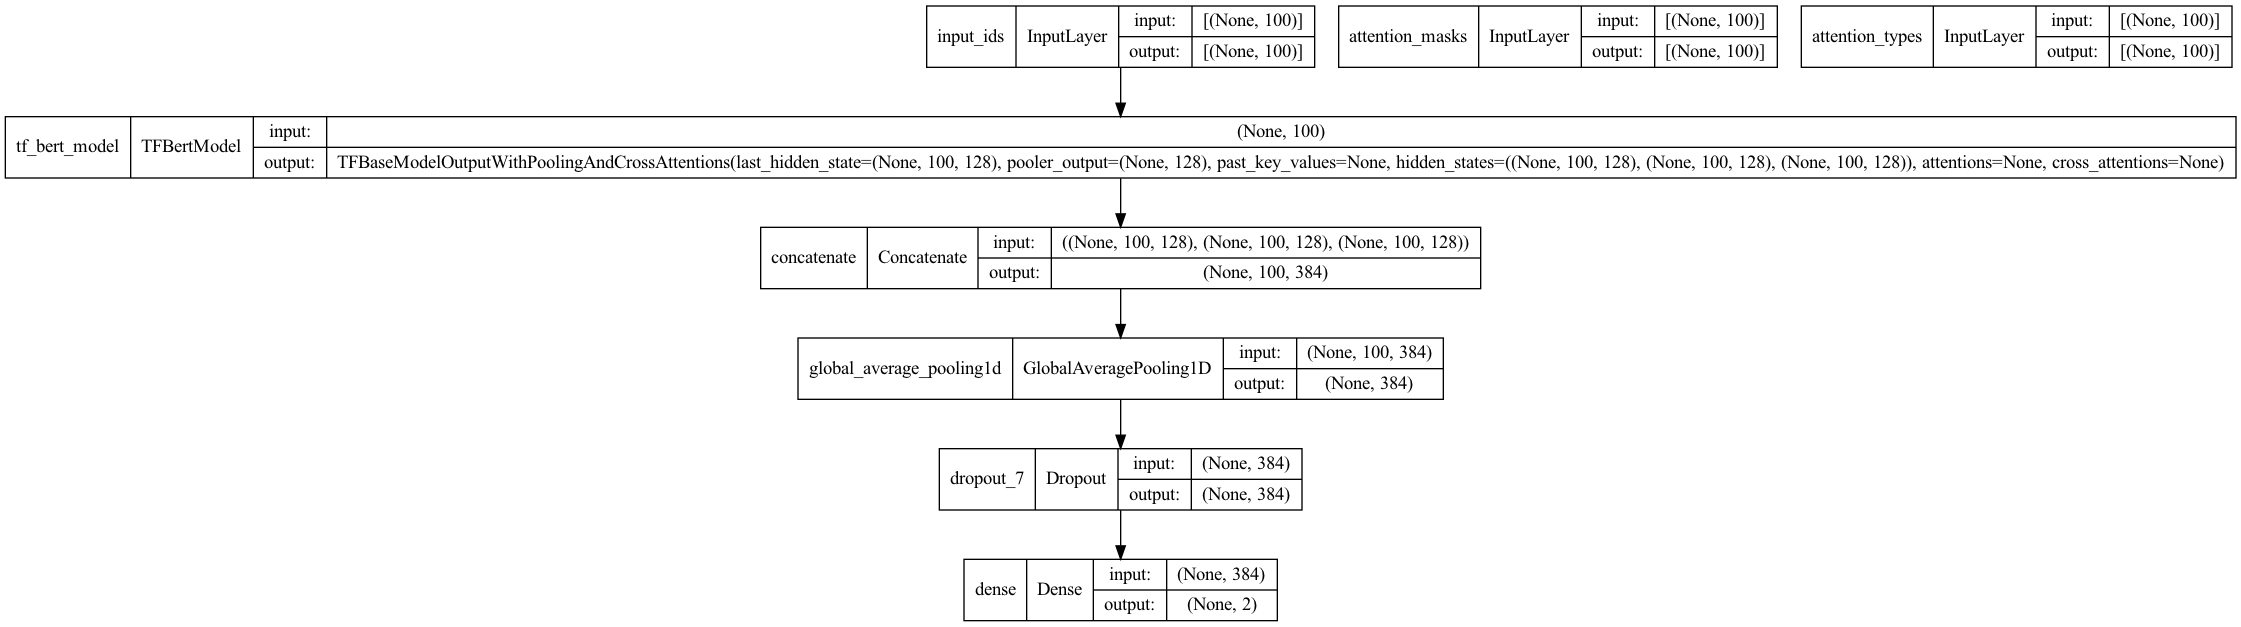
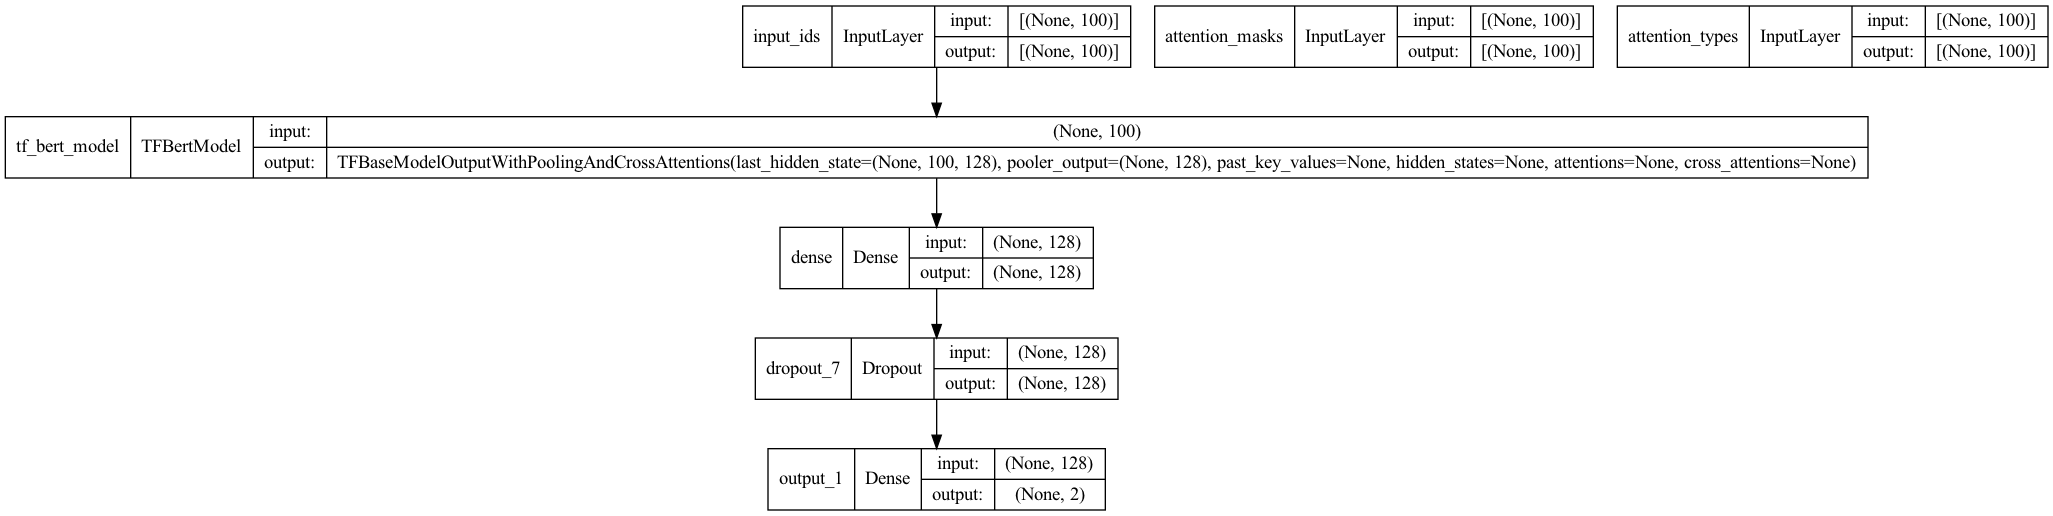
output name

Changed region(s): [[0.0, 0.186, 1.0, 0.9922], [0.3429, 0.0, 1.0, 0.186]]

diff --git a/deepLearning/tf/NLP/prepare_data.py b/deepLearning/tf/NLP/prepare_data.py
@@ -109,15 +109,18 @@ def data_preprocess_bert(data_df, pretrained_model_name, from_pt=False, seq_len=
 
     # 组织tf.data.Dataset(bert)
     train_dataset = tf.data.Dataset.from_tensor_slices((
-        {"input_ids":training_texts_ids, "attention_masks": training_texts_masks, "attention_types":training_texts_types}, training_labels))
+        {"input_ids":training_texts_ids, "attention_masks": training_texts_masks, "attention_types":training_texts_types}, 
+        training_labels))
     train_dataset = train_dataset.shuffle(buffer_size=1024).batch(batch_size, drop_remainder=True)
 
     val_dataset = tf.data.Dataset.from_tensor_slices((
-        {"input_ids":val_texts_ids, "attention_masks": val_texts_masks, "attention_types":val_texts_types}, val_labels))
+        {"input_ids":val_texts_ids, "attention_masks": val_texts_masks, "attention_types":val_texts_types}, 
+        val_labels))
     val_dataset = val_dataset.batch(batch_size, drop_remainder=True)
 
     test_dataset = tf.data.Dataset.from_tensor_slices((
-        {"input_ids":test_texts_ids, "attention_masks": test_texts_masks, "attention_types":test_texts_types}, test_labels))
+        {"input_ids":test_texts_ids, "attention_masks": test_texts_masks, "attention_types":test_texts_types}, 
+        test_labels))
     test_dataset = test_dataset.batch(batch_size, drop_remainder=True)
 
     return train_dataset, val_dataset, test_dataset

diff --git a/deepLearning/tf/NLP/tf_ imdb_main.py b/deepLearning/tf/NLP/tf_ imdb_main.py
@@ -33,9 +33,9 @@ print(data_df['label'].value_counts(normalize=True))
 # train_dataset, val_dataset, test_dataset = data_preprocess(data_df)
 
 # 特征工程(数值、类别、时间、文本、图像)(bert)
-# pretrained_model_name, from_pt = "hfl/chinese-roberta-wwm-ext", False
+pretrained_model_name, from_pt = "hfl/chinese-roberta-wwm-ext", False
 
-pretrained_model_name, from_pt = "prajjwal1/bert-tiny", True # (L=2, H=128)
+# pretrained_model_name, from_pt = "prajjwal1/bert-tiny", True # (L=2, H=128)
 # pretrained_model_name, from_pt = "prajjwal1/bert-mini", True # (L=4, H=256)
 # pretrained_model_name, from_pt = "prajjwal1/bert-small", True # (L=4, H=512)
 # pretrained_model_name, from_pt = "prajjwal1/bert-medium", True # (L=8, H=512) 
@@ -102,7 +102,8 @@ model = bert_model(pretrained_model_name=pretrained_model_name,
 #                         show_shapes=True)
 
 model.compile(optimizer = tf.keras.optimizers.Adam(learning_rate=1e-3), 
-              loss = "categorical_crossentropy",
+              loss = {"output_1": "categorical_crossentropy"},
+              loss_weights=[1.0], # 为每个损失分配不同的权重
               metrics=['accuracy'])
 
 # 训练模型

diff --git a/deepLearning/tf/NLP/tf_fasttext.py b/deepLearning/tf/NLP/tf_fasttext.py
@@ -27,7 +27,7 @@ class FastText(tf.keras.Model):
         self.embedding = Embedding(input_dim=self.max_features, output_dim=self.embedding_dims, input_length=self.maxlen)
         self.pooling = GlobalAveragePooling1D()
         self.dense = Dense(128, activation='relu')
-        self.classifier = Dense(self.class_num, activation=self.last_activation)
+        self.classifier = Dense(self.class_num, activation=self.last_activation, name="classifier")
         
     def call(self, inputs):
         if len(inputs.get_shape()) != 2:
@@ -39,7 +39,7 @@ class FastText(tf.keras.Model):
         pool = self.pooling(emb)
         h = self.dense(pool)
         output = self.classifier(h)
-        return output
+        return [output]
     
     def get_config(self):
         return {"maxlen": self.maxlen,

diff --git a/deepLearning/tf/NLP/tf_bert.py b/deepLearning/tf/NLP/tf_bert.py
@@ -45,10 +45,10 @@ def bert_model(pretrained_model_name, seq_len, class_num, from_pt=False, last_ac
     
     x = tf.keras.layers.Dense(128, activation='relu')(x)
     x = tf.keras.layers.Dropout(0.15)(x)
-    classifier = tf.keras.layers.Dense(class_num, activation=last_activation)(x)
+    classifier = tf.keras.layers.Dense(class_num, activation=last_activation, name="output_1")(x)
     
     model = tf.keras.models.Model(inputs=[input_ids, attention_masks, attention_types], outputs=classifier)
-    
+
     return model
 
 

diff --git a/featureEngineering/feature_time.py b/featureEngineering/feature_time.py
@@ -32,3 +32,4 @@ time2 = pd.to_datetime(time_end)
 delta_time = time2 - time1
 # 转换为int
 delta_time = delta_time.days
+# 时间段再分桶
